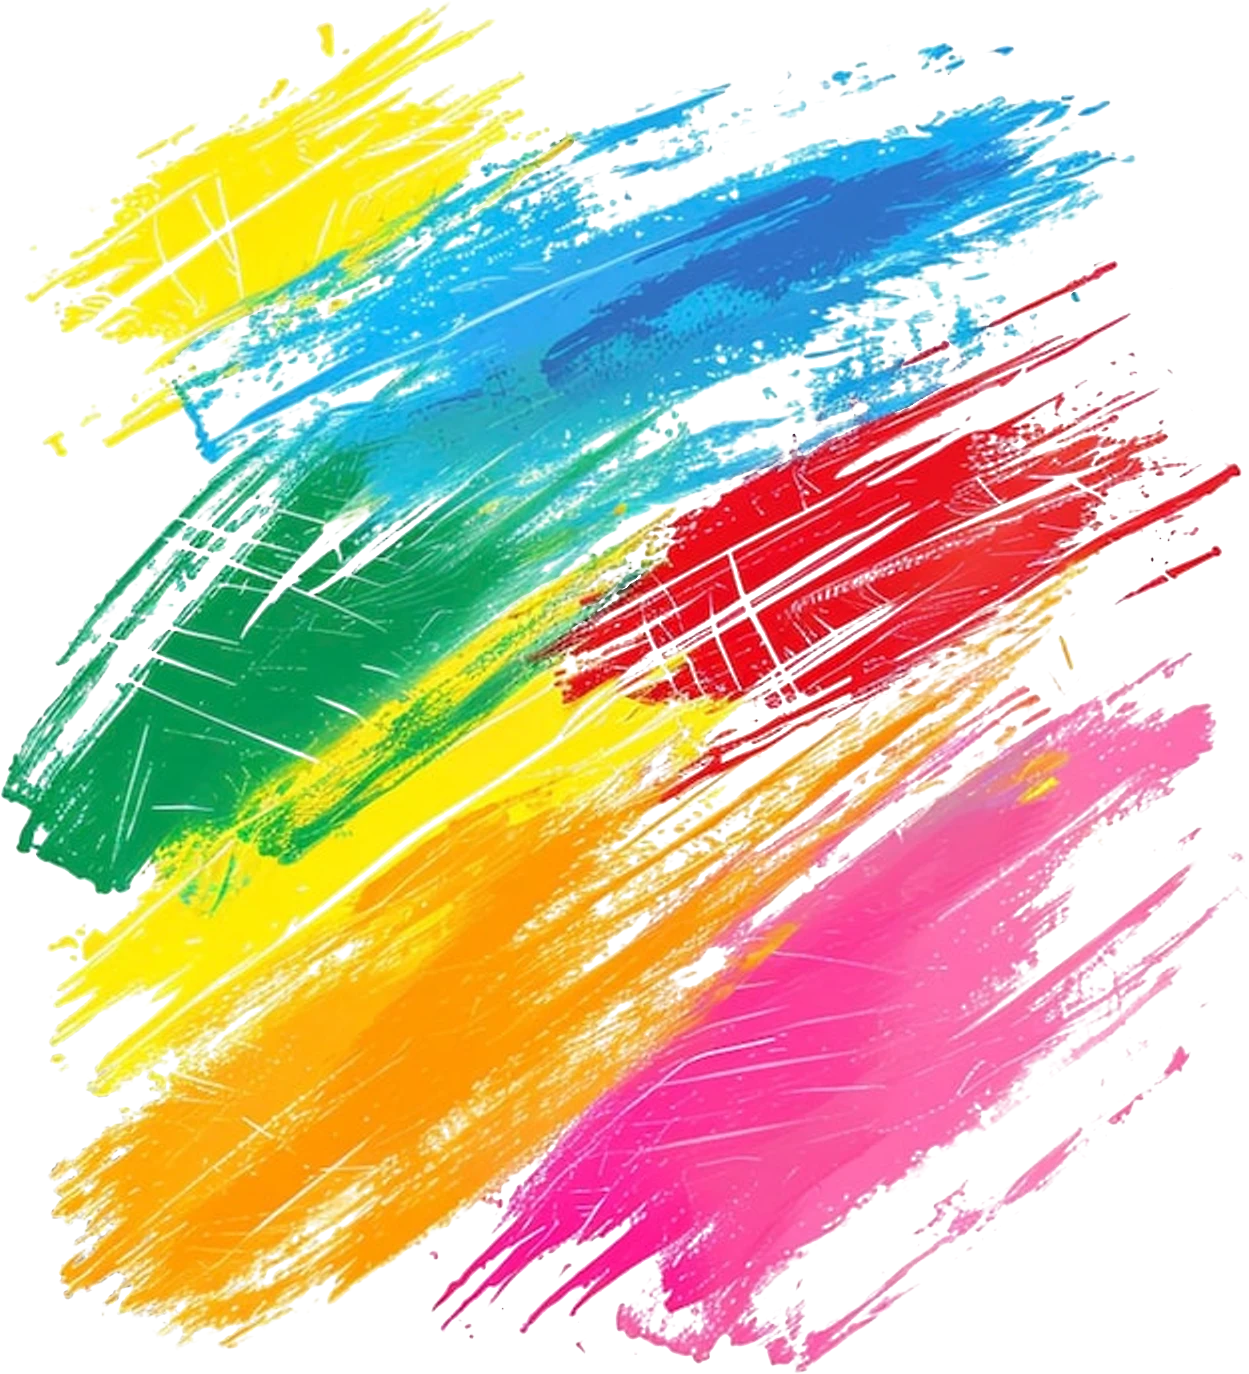
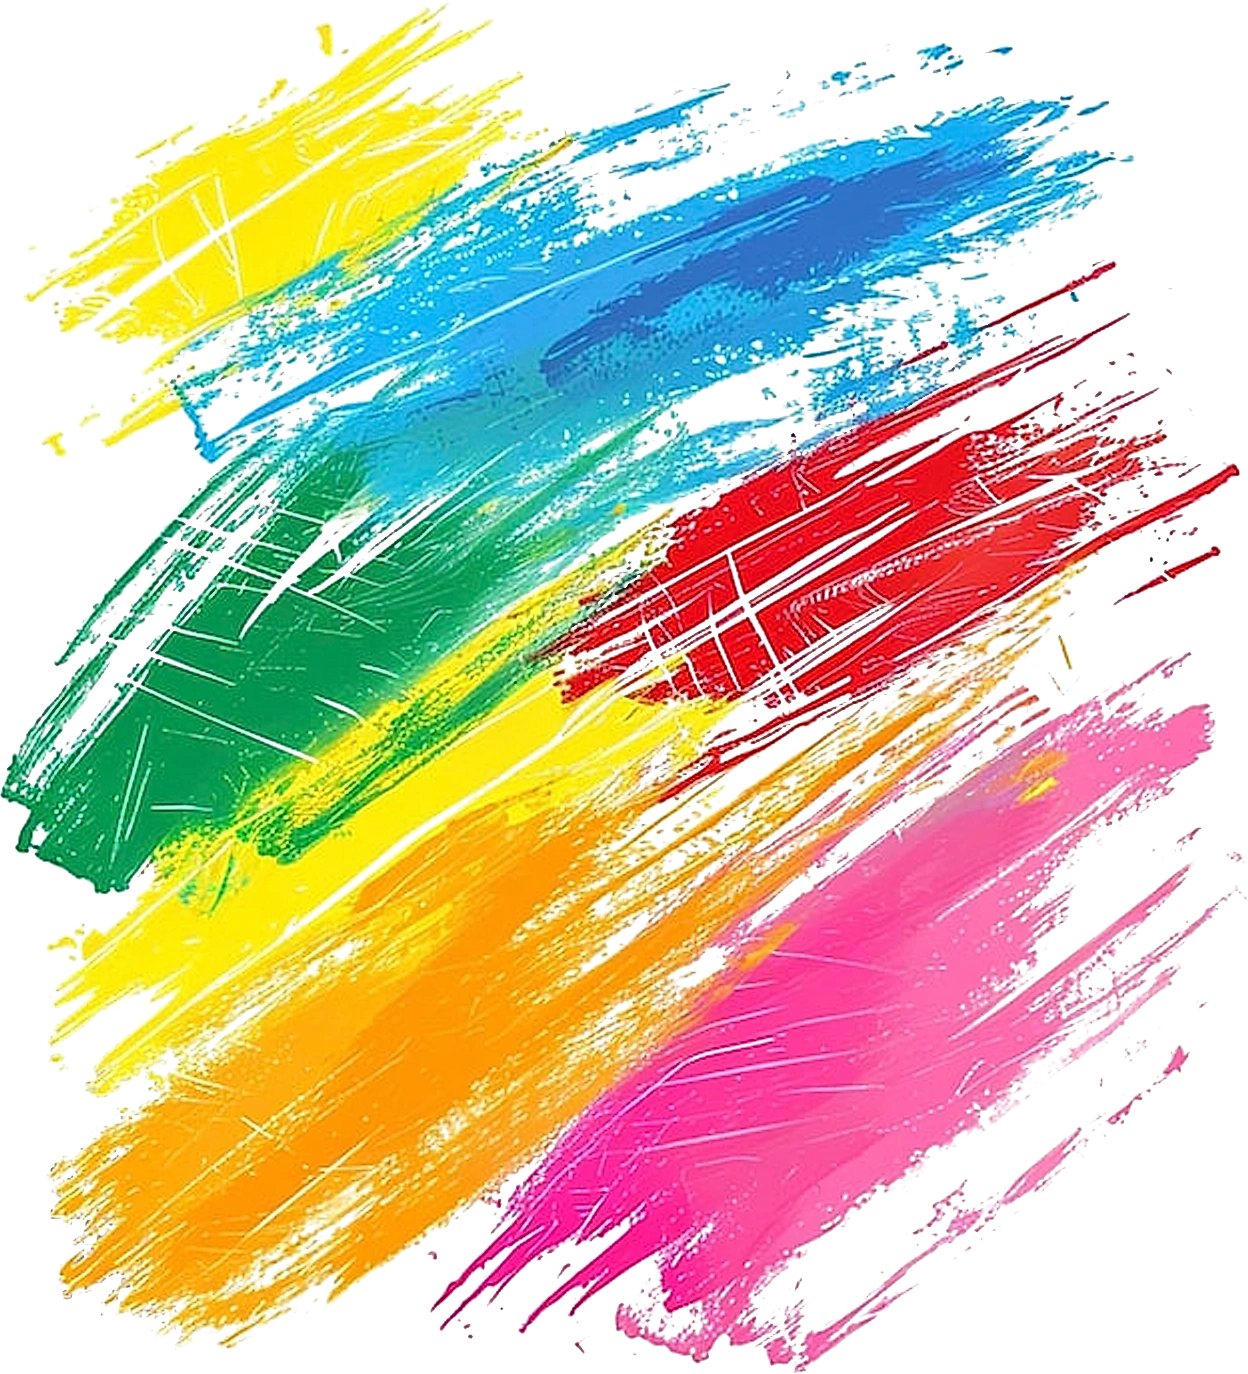
Hero orbit: sharper paint backdrop, highlighter-green centre circle
Re-export the brush image from the clean 740px source with a sharper
2x upscale (the larger CDN renditions carry a Magnific preview
watermark, so they are not used). Centre "Top Creator Picnic" circle
changes from orange to a highlighter green (#b8ff3d).

diff --git a/app/globals.css b/app/globals.css
@@ -52,7 +52,7 @@ h1 { font-size: clamp(48px, 7vw, 92px); line-height: .98; letter-spacing: -.075e
 .orbit { min-height: 528px; position: relative; isolation: isolate; display: flex; align-items: center; justify-content: center; animation: soft-in 1s .15s both; }
 /* Paint-stroke backdrop behind the avatar orbit (public/orbit-brush.webp). Sits behind everything via z-index -1 in the .orbit stacking context. */
 .orbit::before { content: ""; position: absolute; left: 50%; top: 50%; z-index: -1; width: 640px; aspect-ratio: 1249 / 1374; transform: translate(-50%, -50%); background: url("/orbit-brush.webp") center / contain no-repeat; pointer-events: none; }
-.orbit-center { width: 190px; height: 190px; border-radius: 50%; background: var(--orange); display: grid; place-items: center; color: var(--ink); text-align: center; font-size: 23px; font-weight: 800; letter-spacing: -.06em; line-height: .95; animation: pulse 4s ease-in-out infinite; }
+.orbit-center { width: 190px; height: 190px; border-radius: 50%; background: #b8ff3d; display: grid; place-items: center; color: var(--ink); text-align: center; font-size: 23px; font-weight: 800; letter-spacing: -.06em; line-height: .95; animation: pulse 4s ease-in-out infinite; }
 .avatar { position: absolute; top: 50%; left: 50%; display: block; width: 58px; height: 58px; border: 4px solid var(--cream); border-radius: 50%; box-shadow: 0 8px 20px #17332922; transition: transform .28s cubic-bezier(.2,.8,.2,1), box-shadow .28s, filter .28s; animation: float 4s ease-in-out infinite; }
 .avatar img { display: block; width: 100%; height: 100%; object-fit: cover; border-radius: 50%; }
 .avatar-outer { --radius: 216px; }.avatar-inner { --radius: 144px; }.avatar-outer, .avatar-inner { transform: translate(-50%, -50%) rotate(var(--angle)) translateY(calc(var(--radius) * -1)) rotate(calc(var(--angle) * -1)); }
